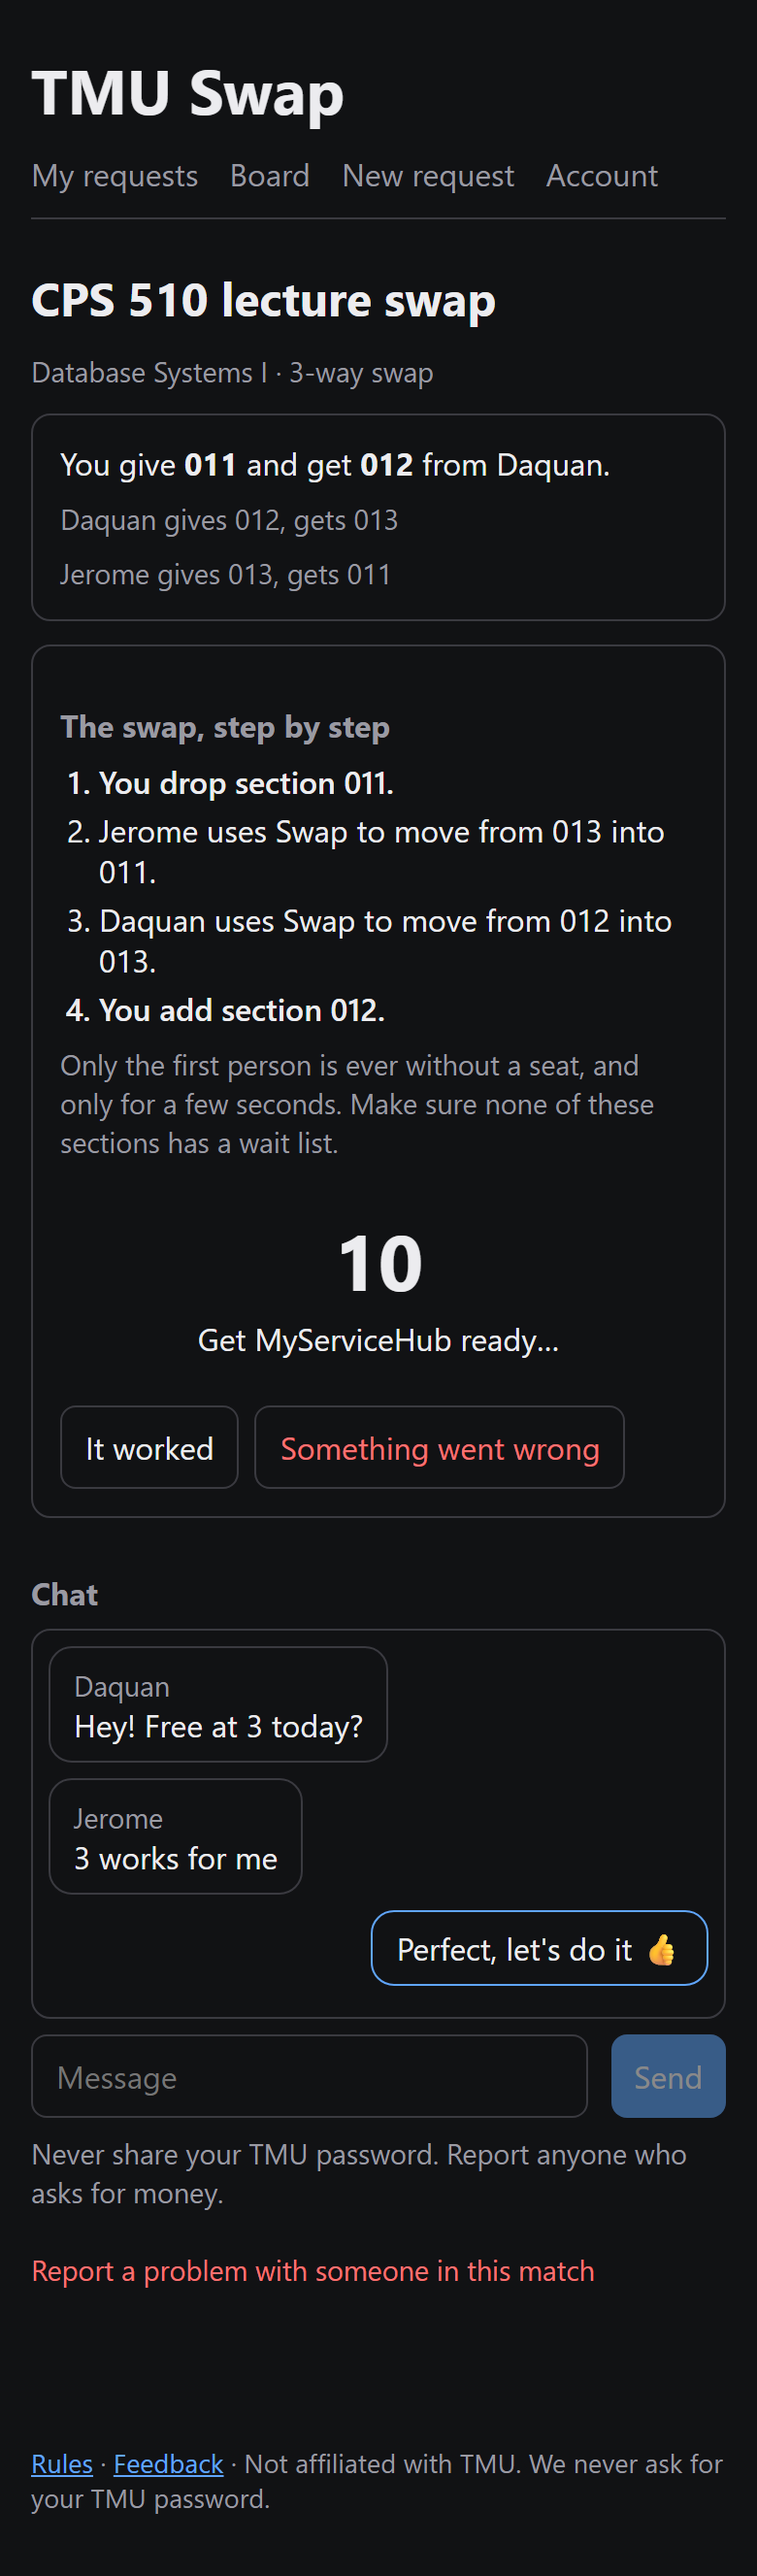
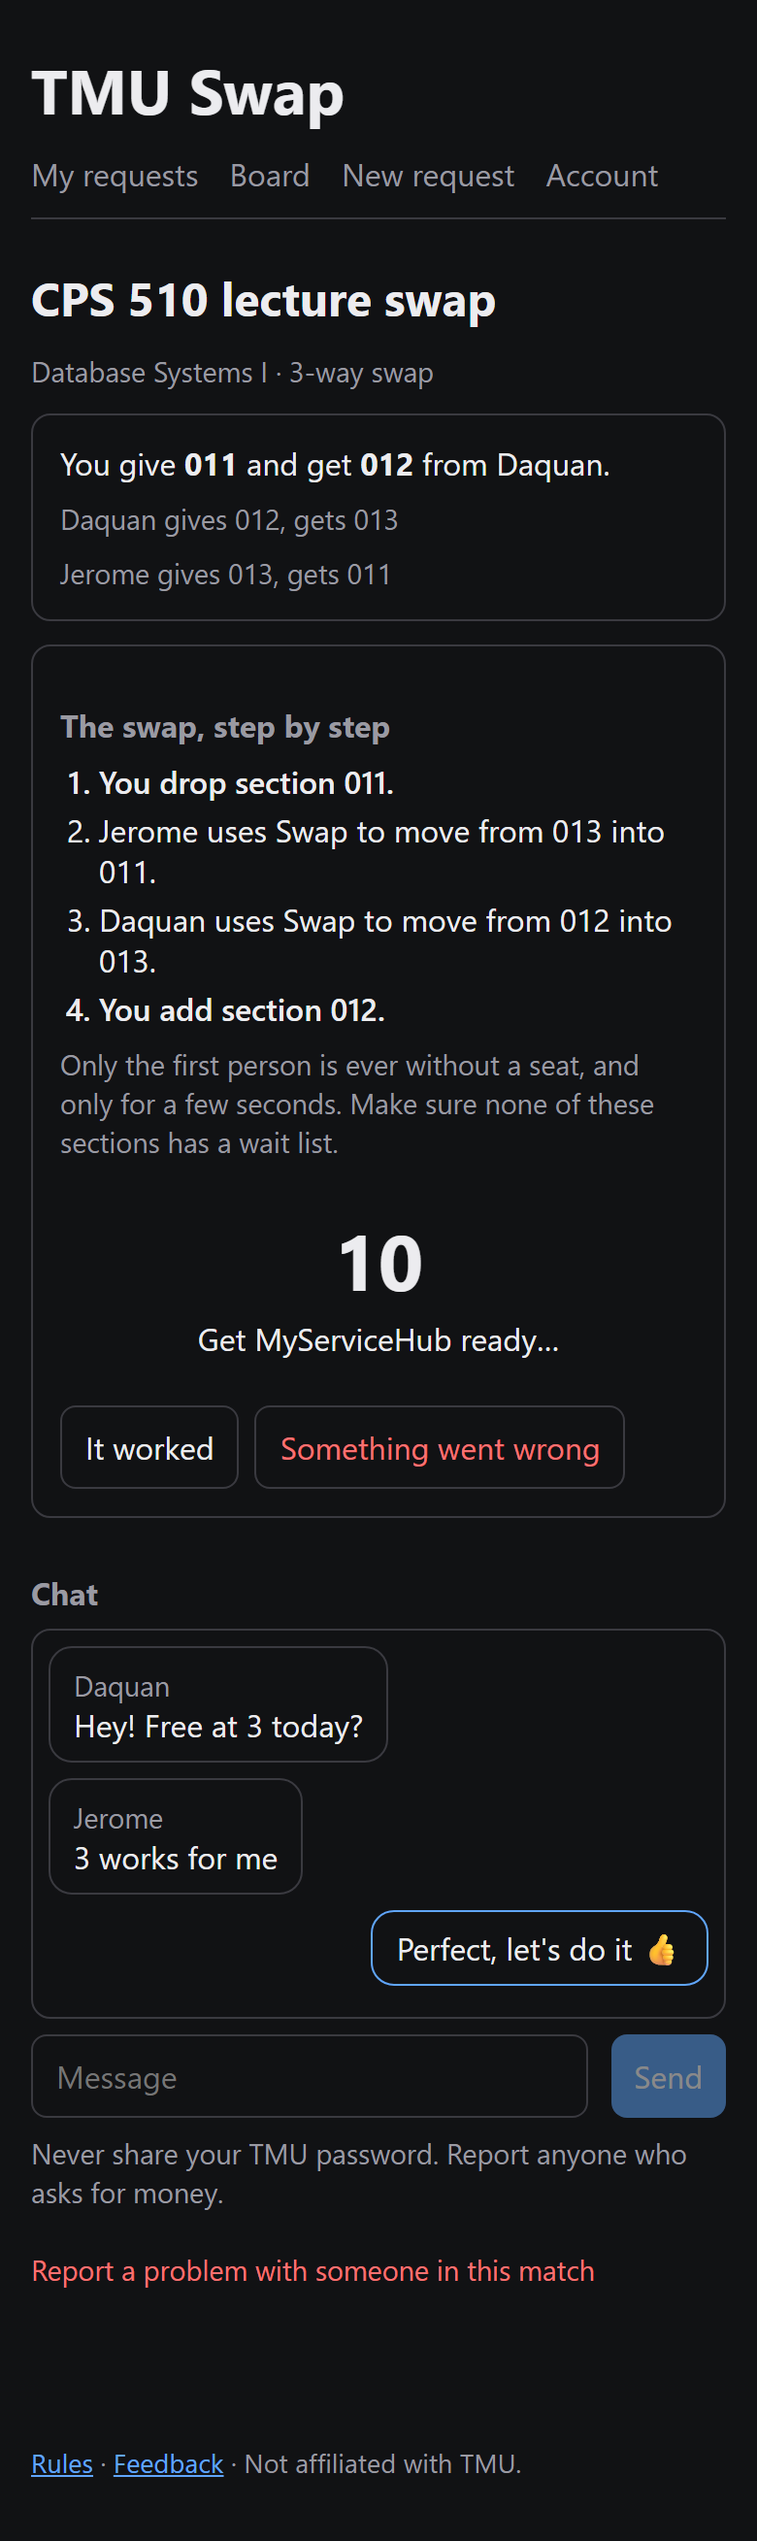
Show the password note on the login page only (#8)

diff --git a/web/src/App.tsx b/web/src/App.tsx
@@ -162,7 +162,7 @@ function Footer() {
   return (
     <footer>
       <Link to="/rules">Rules</Link> · <Link to="/feedback" state={{ from: pathname }}>Feedback</Link> · Not
-      affiliated with TMU. We never ask for your TMU password.
+      affiliated with TMU.
     </footer>
   );
 }
